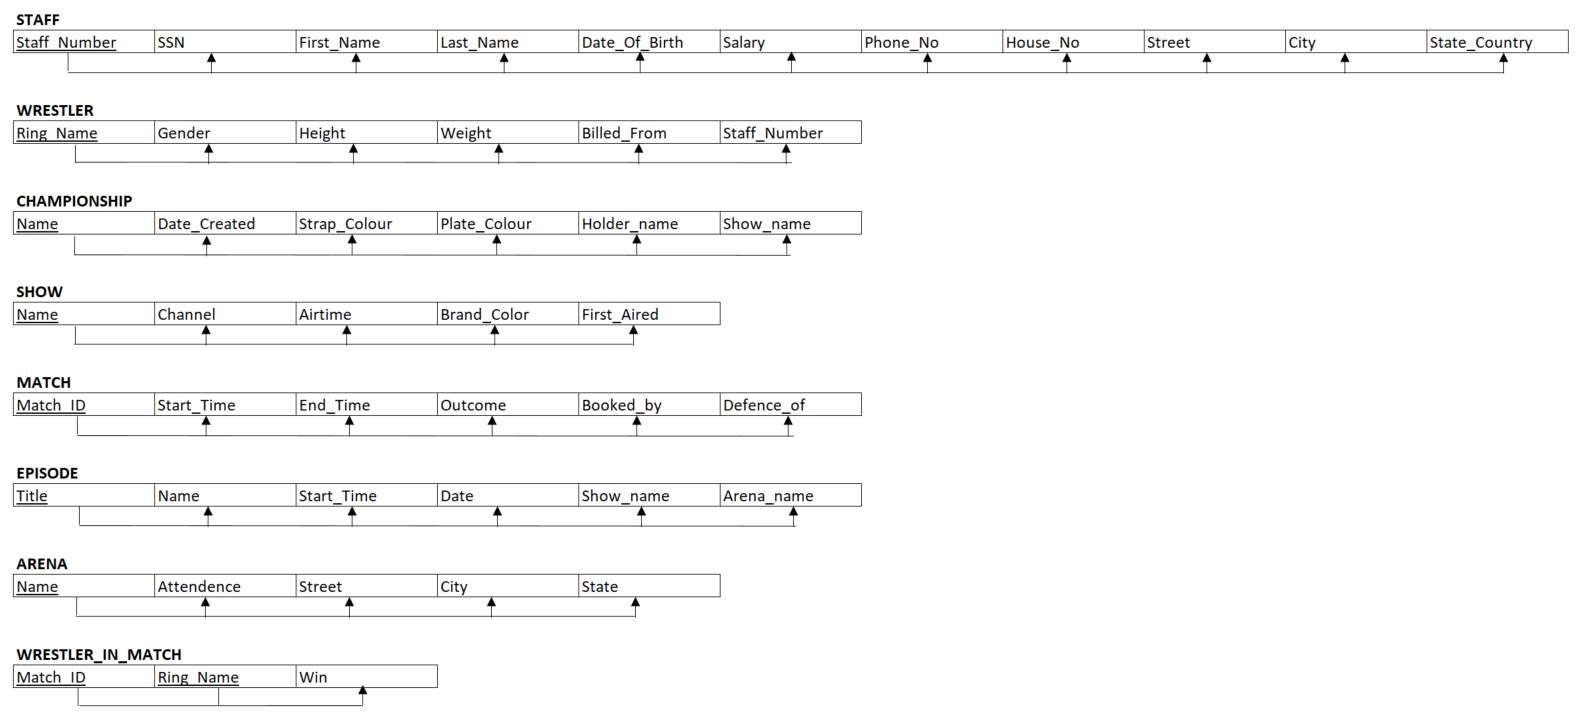
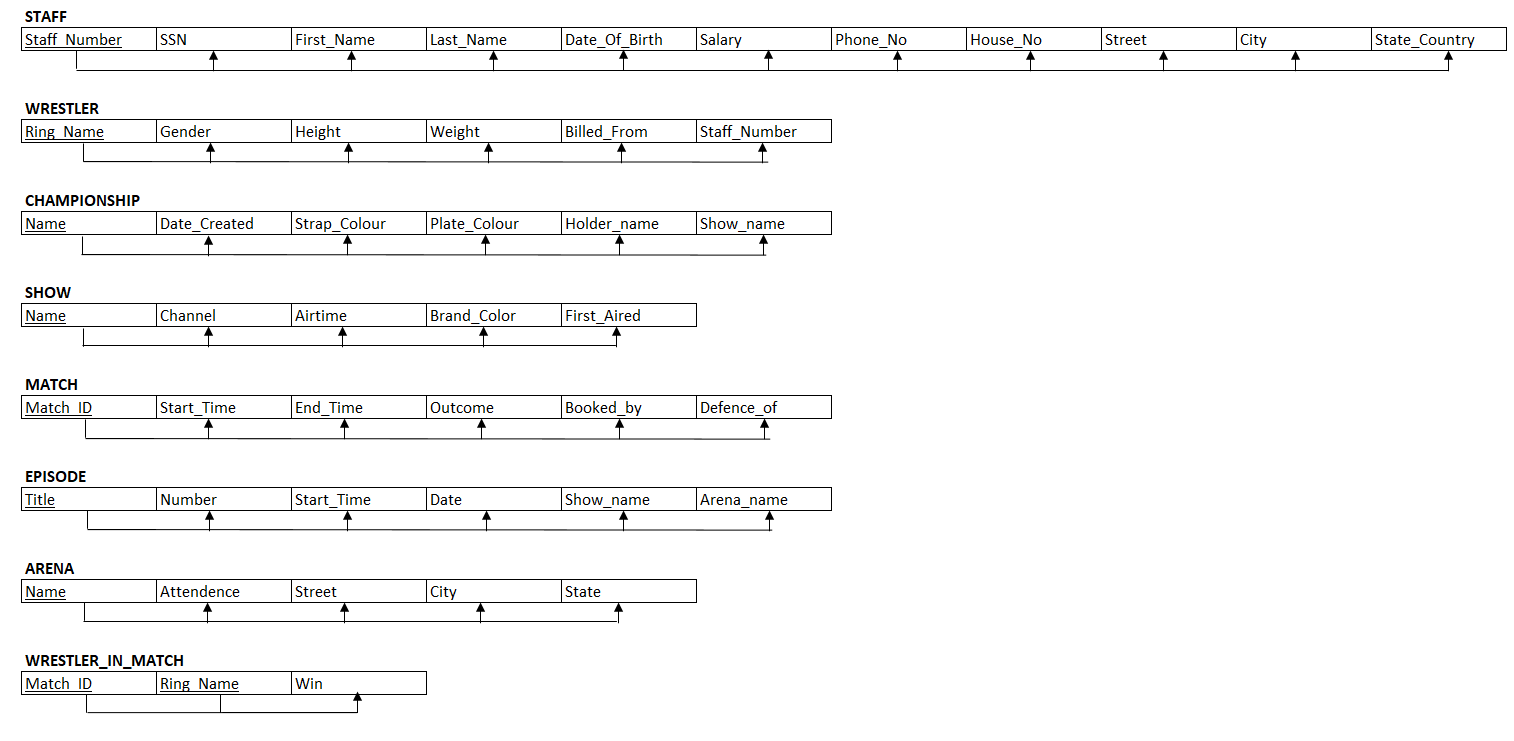
Updated images, README and report to add episode number attribute

diff --git a/README.md b/README.md
@@ -25,3 +25,5 @@ Relations:
 ![Entity Relationship Diagram](entity-relationship-model.png)
 
 ![Relational Diagram](relational-diagram.png)
+
+![Functional Dependency Diagram](functional-dependency-diagram.png)
